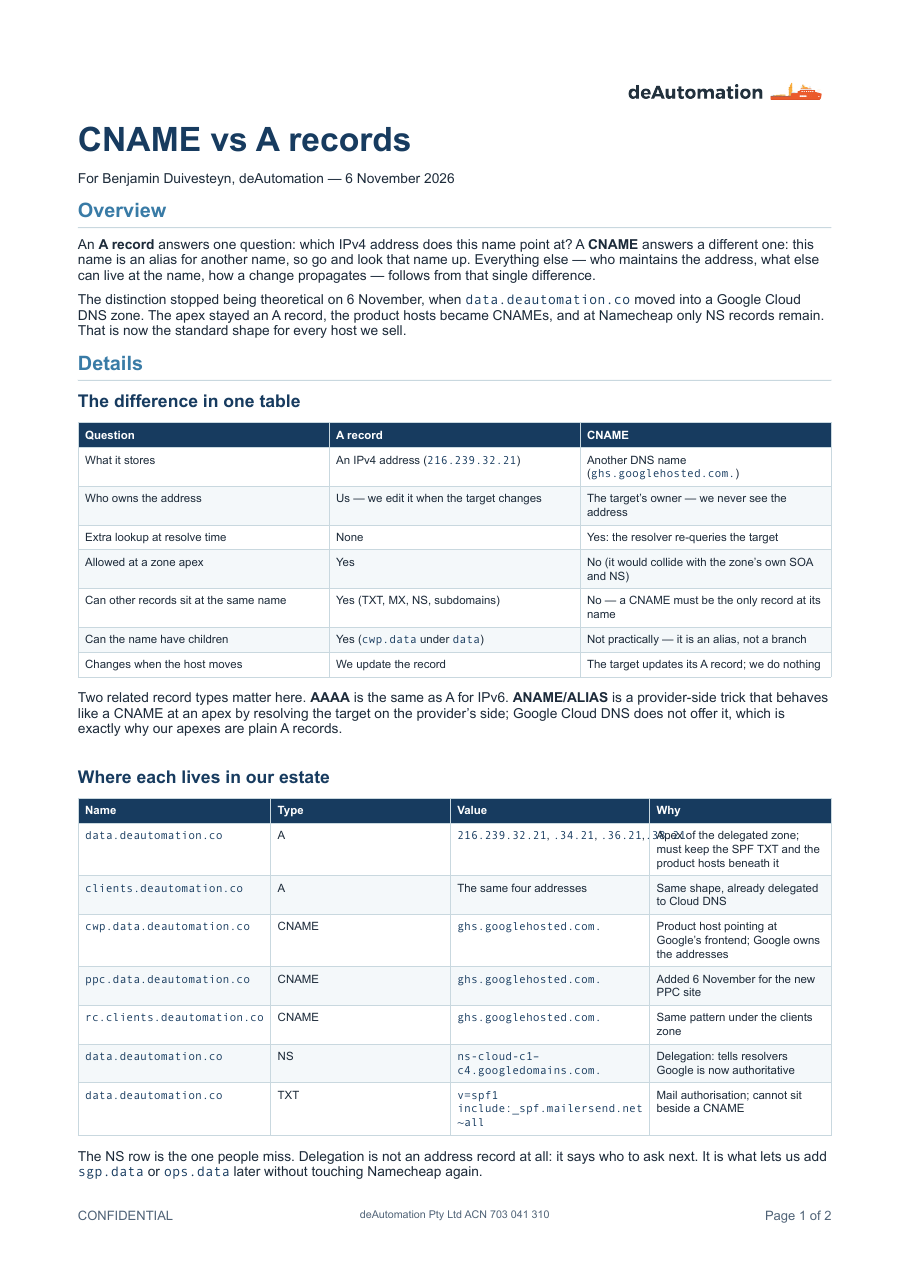
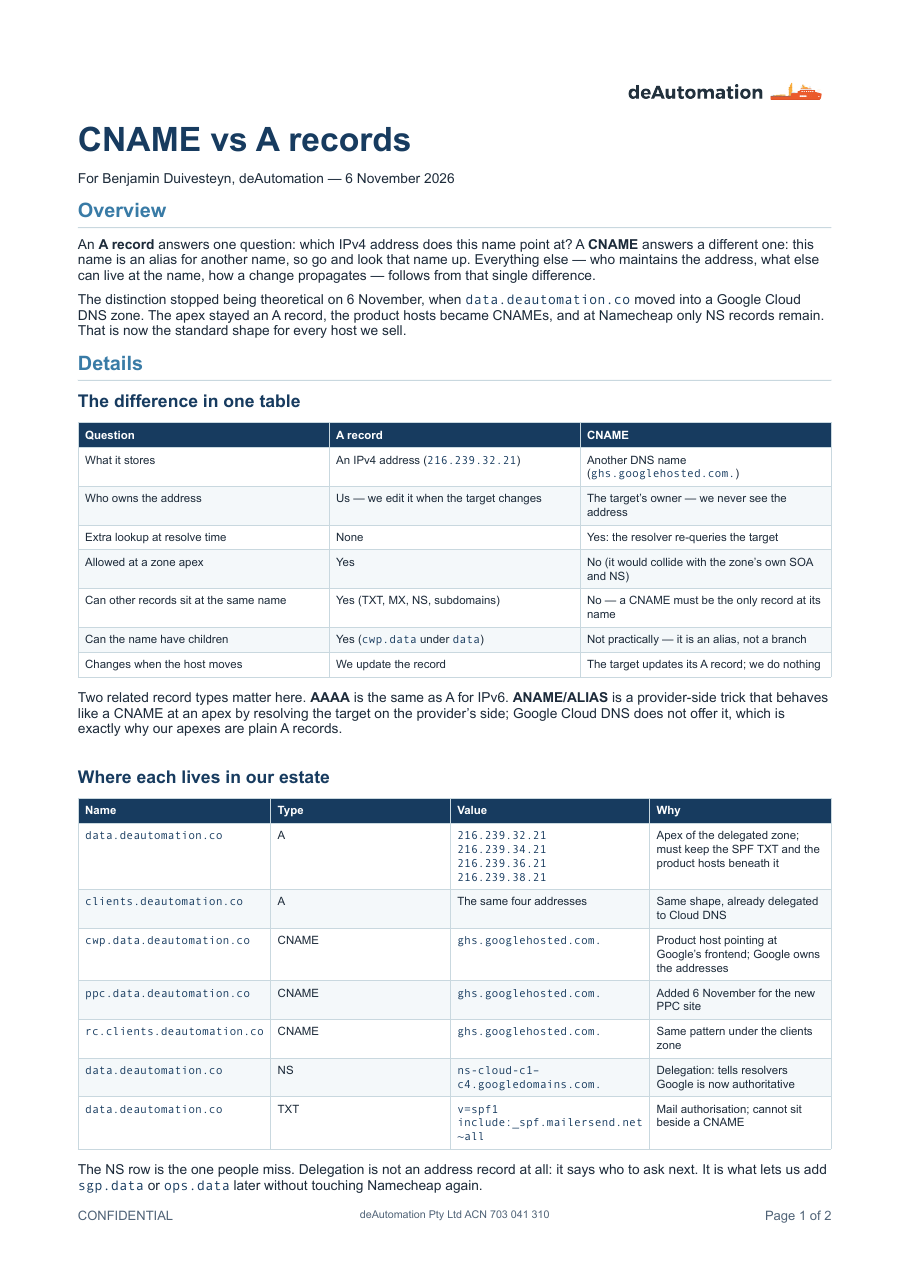
docs: document the product site in README and AGENTS
- README: 'The product site' section — repo, local run, pages table, live
  charts from /charts.json, house palette, and the village-green geo caveat
- AGENTS: product-site rules (never bake charts, palette is a contract, grey
  means one thing per surface, fail closed, do not colour unjoinable lots)
- chain line updated: site is local, not 'not built'

Changed region(s): [[0.0923, 0.6527, 0.9231, 0.9324]]

diff --git a/reports/2026-11-06-dns-a-vs-cname/DNS_A_vs_CNAME_2026-11-06.md b/reports/2026-11-06-dns-a-vs-cname/DNS_A_vs_CNAME_2026-11-06.md
@@ -28,7 +28,7 @@ Two related record types matter here. **AAAA** is the same as A for IPv6. **ANAM
 
 | Name | Type | Value | Why |
 | --- | --- | --- | --- |
-| `data.deautomation.co` | A | `216.239.32.21`, `.34.21`, `.36.21`, `.38.21` | Apex of the delegated zone; must keep the SPF TXT and the product hosts beneath it |
+| `data.deautomation.co` | A | `216.239.32.21`<br>`216.239.34.21`<br>`216.239.36.21`<br>`216.239.38.21` | Apex of the delegated zone; must keep the SPF TXT and the product hosts beneath it |
 | `clients.deautomation.co` | A | The same four addresses | Same shape, already delegated to Cloud DNS |
 | `cwp.data.deautomation.co` | CNAME | `ghs.googlehosted.com.` | Product host pointing at Google's frontend; Google owns the addresses |
 | `ppc.data.deautomation.co` | CNAME | `ghs.googlehosted.com.` | Added 6 November for the new PPC site |
@@ -38,12 +38,14 @@ Two related record types matter here. **AAAA** is the same as A for IPv6. **ANAM
 
 The NS row is the one people miss. Delegation is not an address record at all: it says who to ask next. It is what lets us add `sgp.data` or `ops.data` later without touching Namecheap again.
 
+Both zones carry the same AAAA set, CAA policy (`pki.goog`, `letsencrypt.org`), DNSSEC and a family label; only `data` needs the SPF TXT. A record added to one zone should be checked against the other.
+
 ### What a resolver actually does for `ppc.data.deautomation.co`
 
 1. The stub resolver asks the root, then `.com`, then the `deautomation.co` nameservers at Namecheap.
 2. Namecheap returns the **NS** set for `data`: `ns-cloud-c1` through `ns-cloud-c4`.
 3. The resolver asks Google for `ppc.data`; the zone answers with a **CNAME** to `ghs.googlehosted.com.`
-4. The resolver asks for `ghs.googlehosted.com` and gets an **A** record — currently `192.178.187.121`.
+4. The resolver asks for `ghs.googlehosted.com` and gets an **A** record — `192.178.187.121` at the time of writing.
 5. The browser connects to that address, sends `ppc.data.deautomation.co` in the TLS handshake, and Google's frontend routes it to the `ppc-data` Cloud Run service.
 
 Until the Namecheap delegation exists, step 2 never reaches Google, so `ppc.data` is still NXDOMAIN — the CNAME exists only inside the new zone. That is the one reason the record is not live yet.
@@ -56,27 +58,26 @@ Until the Namecheap delegation exists, step 2 never reaches Google, so `ppc.data
 
 ### Why the product hosts are CNAMEs
 
-- Google owns `ghs.googlehosted.com` and its addresses. A CNAME means Google can move the frontend without us editing anything.
+- Google owns `ghs.googlehosted.com` and its addresses, so it can move the frontend without us editing anything.
 - Each product host is one mapping and one certificate; the CNAME is the only record the mapping needs.
-- It keeps the registrar out of routine work: adding a product is a record in `data-zone`, not a Namecheap edit.
+- Adding a product is a `data-zone` record, not a Namecheap edit.
 
 ### Traps worth remembering
 
 - Never put a CNAME at a zone apex. It looks tidy and breaks the zone.
 - A CNAME blocks every other record at that name: no TXT, no MX, no NS, no children. Mail and aliases cannot share a name.
 - `dig +short TXT cwp.data.deautomation.co` prints the CNAME target, not a TXT answer. Use `dig TXT +noall +answer` when checking mail records.
-- A CNAME adds a lookup and a failure point; keep it one hop, not a chain.
 - TTL matters on cutover day, not after: the old Namecheap records cached for 1800 seconds, the new zone uses 300.
 - Records are edited where they are authoritative. After delegation, a Namecheap A/TXT edit for `data` is a no-op.
 
 ### What changed on 6 November
 
-A `data-zone` was created in Cloud DNS and populated with the four apex addresses, the SPF TXT and the `cwp.data` CNAME before anything was touched at the registrar, so delegation cannot produce an empty zone. The `ppc.data` CNAME was added to the same zone and the Cloud Run mapping for it was created. The zone was verified directly against `ns-cloud-c1`. The remaining step is the delegation itself, which is a registrar action and cannot be automated with the credentials we hold.
+A `data-zone` was created and populated with every record `data` needs — A, AAAA, CAA, the SPF TXT and the `cwp.data` CNAME — before the registrar was touched, so delegation cannot point at an empty zone. The `ppc.data` CNAME and its Cloud Run mapping followed. The zone matches `clients-zone` in A, AAAA, CAA, DNSSEC and labelling, and was verified on `ns-cloud-c1`. Delegation is the only remaining step, and it is registrar-side.
 
 ## Next steps
 
-1. Replace the four `data` A records and the `data` TXT at Namecheap with four NS records for `ns-cloud-c1–c4.googledomains.com.`
-2. Confirm propagation with `dig NS data.deautomation.co` and `dig CNAME ppc.data.deautomation.co`.
+1. Add the four `data` NS records at Namecheap, and leave the A, TXT and `cwp.data` rows in place until delegation is confirmed.
+2. Confirm propagation with `dig NS data.deautomation.co` and `dig CNAME ppc.data.deautomation.co`; then delete the now-inert registrar copies so the Google zone is the only source.
 3. Allow 15–30 minutes for the `ppc.data` certificate, then check the mapping reports `Ready: True`.
 4. Add future product hosts (`sgp.data`, `ops.data`) as records in `data-zone`; the registrar is not involved again.
 

diff --git a/README.md b/README.md
@@ -12,7 +12,7 @@ separate chain, documented in
 |---|---|
 | Snapshotter | `deData-PPC-MasterplanDownloader` → `gs://masterplans/ppc/masterplans/json/` |
 | ETL → Firestore | `deData-PPC-ETL-Pipeline` → `PPC/masterplan-data/communities/{estate}` |
-| Product site | `ppc.data.deautomation.co` (planned — [`docs/PPC-GO-LIVE.md`](docs/PPC-GO-LIVE.md)) |
+| Product site | `data.deautomation.co-ppc` — **runs locally**, not deployed ([docs/PPC-GO-LIVE.md](docs/PPC-GO-LIVE.md)) |
 | Identity, Stripe, entitlements | `data.deautomation.co` |
 
 Nothing in this repo feeds production. It exists to work out what the data
@@ -45,6 +45,41 @@ them. It does now (`scripts/sync.py`), and the series has its first real number:
 **Estate masterplans — 27 estates, dated versions**
 
 ![Estate masterplans](_peet/masterplans/_contact_sheet.png)
+
+## The product site
+
+`data.deautomation.co-ppc` — Flask + Firestore, the same stack as CWP. It serves
+the ETL's output and holds no data of its own.
+
+```bash
+cd ../data.deautomation.co-ppc
+GOOGLE_APPLICATION_CREDENTIALS=~/.ssh/lic-data-452300-*.json \
+FIRESTORE_PROJECT=lic-data-452300 DEV_BYPASS=1 python3 app.py
+# http://127.0.0.1:5055
+```
+
+`DEV_BYPASS=1` skips the hub entitlement check **for localhost only** — on a
+deployed service the page redirects to the hub and 403s without a `ppc`
+entitlement.
+
+**Pages**
+
+| Route | What it shows |
+|---|---|
+| `/` | sales rate per week, inventory by status, every estate |
+| `/estate/<slug>` | lot status (one square per lot, by stage), sold vs available, lot map, weekly movement, asking prices |
+| `/charts.json` | the data every chart reads, live from Firestore |
+| `/geo/<slug>.geojson` | fitted lot geometry, where we have it |
+| `/api/estates`, `/api/estate/<slug>` | JSON |
+| `/health` | liveness |
+
+**Charts** are live from `/charts.json`, never baked images. Palette is the
+house key: Sold `#F15A29`, Available `#1f6f8b`, Reserved `#7048b6`,
+Future Release `#2a9d48` — see [`docs/ALTERNATIVE-DATA-STANDARD.md`](docs/ALTERNATIVE-DATA-STANDARD.md) §2.3a.
+
+**Lot map** exists for one estate (`village-green`): the plan's 338 lot positions
+fitted to the boundary ring at 91%, but only 3 lots join current inventory — the
+drawing is an earlier stage generation. Satellite toggle, off by default.
 
 ## What Peet publishes per lot
 

diff --git a/AGENTS.md b/AGENTS.md
@@ -42,7 +42,7 @@ that made the analysis exit with `need 2 full runs`. Both halves are fixed:
 ```
 deData-PPC-MasterplanDownloader  ->  gs://masterplans/ppc/masterplans/json/
 deData-PPC-ETL-Pipeline          ->  Firestore lic-data-452300 / PPC / masterplan-data
-ppc.data.deautomation.co         ->  reads Firestore + hub entitlements   [not built]
+ppc.data.deautomation.co         ->  Flask site: reads Firestore + hub   [local only]
 data.deautomation.co             ->  login, Stripe, entitlements
 ```
 
@@ -56,6 +56,24 @@ data.deautomation.co             ->  login, Stripe, entitlements
   `Australia/Adelaide`, Wednesdays.
 - This repo contributes nothing upstream. If an insight belongs in production,
   it goes into the ETL repo explicitly — never by pointing production at `_peet/`.
+
+## Product site
+`data.deautomation.co-ppc` (separate repo, same Flask + Firestore stack as CWP).
+It is the only thing that reads `PPC/masterplan-data`; this repo never does.
+
+- **Never bake the charts.** They read `/charts.json`, built per request from
+  Firestore under the entitlement check. A stale PNG misstates the snapshot date.
+- **Palette is a contract:** Sold `#F15A29`, Available `#1f6f8b`, Reserved
+  `#7048b6`, Future Release `#2a9d48`; greys are only for "not sold and not
+  available" or "drawn but not joinable".
+- **Grey must mean one thing per surface.** In the lot matrix it is "other
+  status"; on the fitted map it is "not joinable". The page says which.
+- **Entitlement fails closed** — hub unreachable returns 503, never access.
+  `DEV_BYPASS=1` is localhost only.
+- **Only village-green has fitted geometry**, and only 3 of its 338 drawn lots
+  join current inventory. Do not colour the rest as unsold.
+
+Site docs: the repo's own `README.md` and `AGENTS.md`.
 
 Full pattern: [`docs/ALTERNATIVE-DATA-STANDARD.md`](./docs/ALTERNATIVE-DATA-STANDARD.md).
 Current live state: [`docs/STATUS.md`](./docs/STATUS.md).

diff --git a/docs/ALTERNATIVE-DATA-STANDARD.md b/docs/ALTERNATIVE-DATA-STANDARD.md
@@ -124,7 +124,7 @@ CWP reports — and never a colour that could be mistaken for inventory.
 | `Sold` | `#F15A29` | the measured orange; the one colour that means sold |
 | `Available` | `#1f6f8b` | deep teal — primary inventory |
 | `Reserved` | `#7048b6` | purple — committed but not settled |
-| `Future Release` | `#c9d3dc` | light grey — drawn, not yet released |
+| `Future Release` | `#2a9d48` | green — drawn, not yet released |
 | `Unreleased` | `#d7dde5` | the "no value" grey from the CWP charts |
 | `On Hold` | `#8a99a8` | mid grey |
 | `Withdrawn` | `#4a5b6b` | dark grey |
